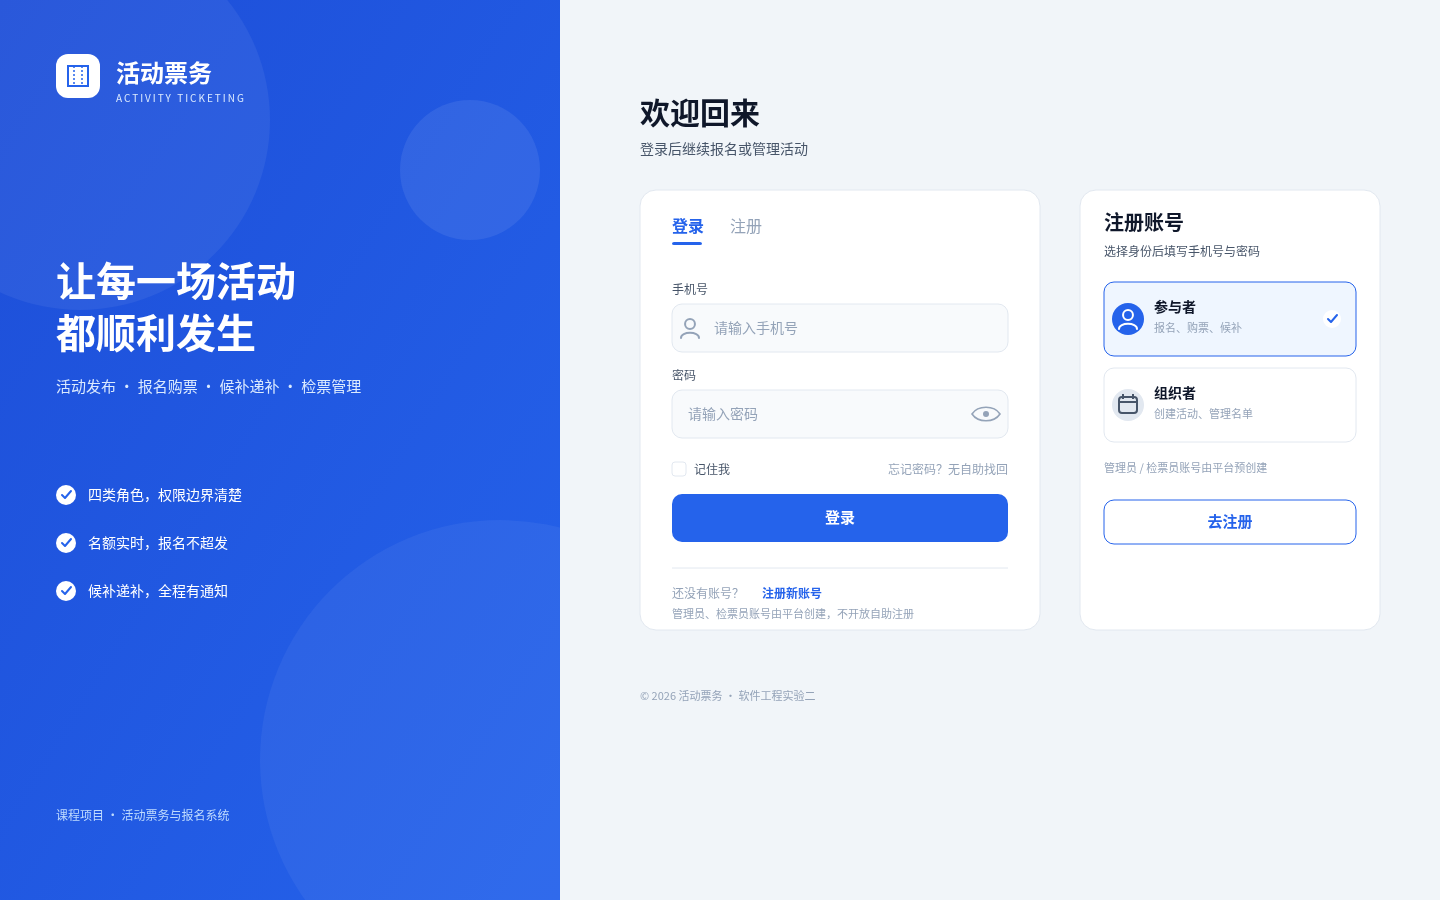
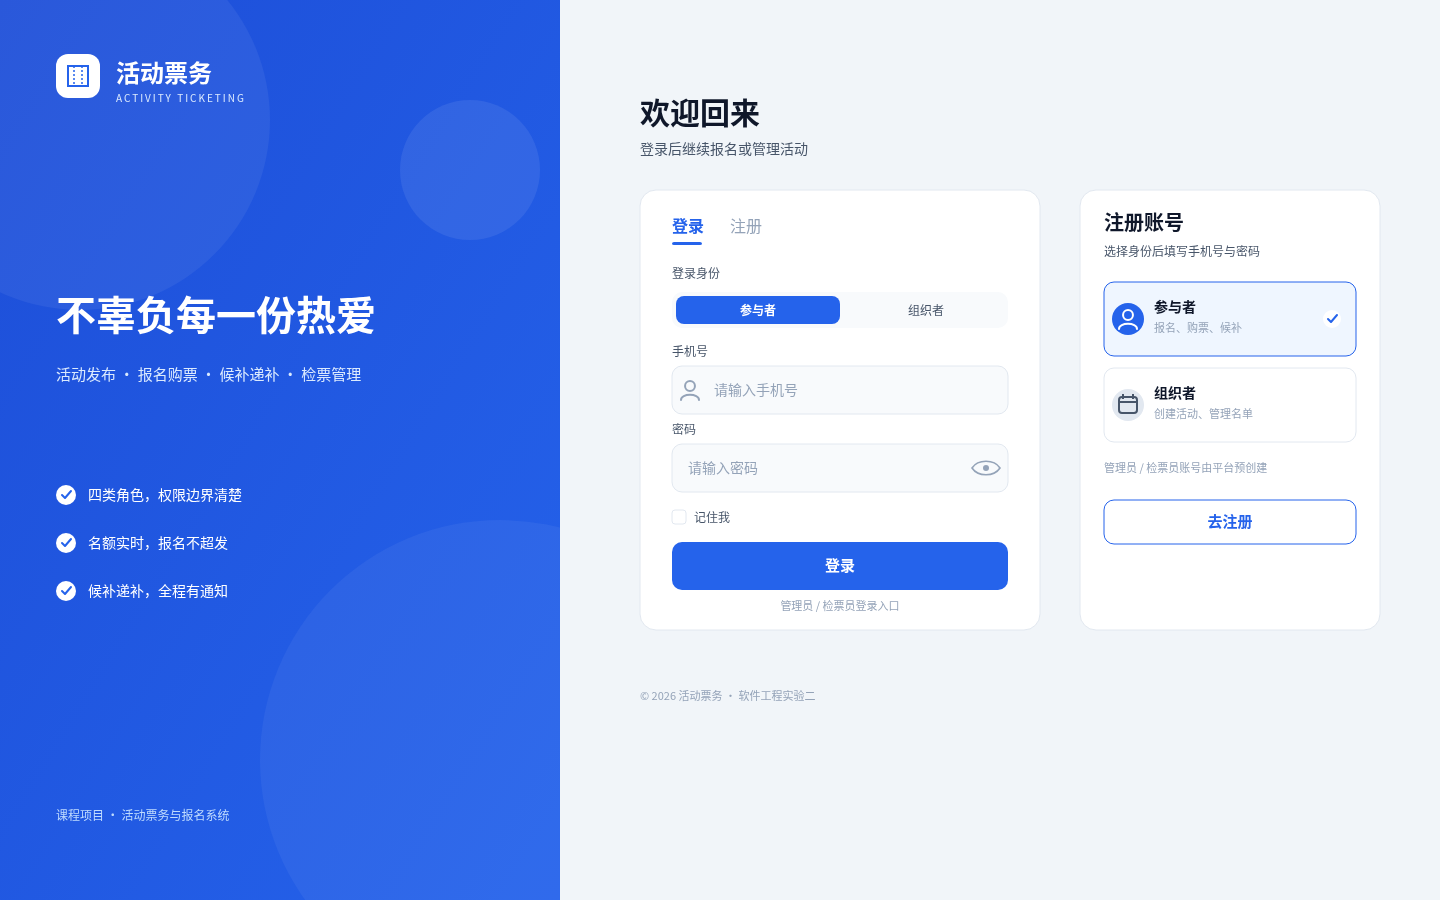
lab2: 按人工意见修改登录页
- 登录增加参与者/组织者身份选择
- 账号唯一键改为 (手机号, 角色)
- 删除找回密码和重复注册/平台创建提示
- 主文案改为“不辜负每一份热爱”
- 记录人工审查与 AI 使用

Changed region(s): [[0.4688, 0.28, 0.7188, 0.6844], [0.0312, 0.28, 0.2812, 0.4356], [0.625, 0.3422, 0.6562, 0.3733]]

diff --git a/lab2/UI/生成UI.py b/lab2/UI/生成UI.py
@@ -122,8 +122,8 @@ def screen_login():
              f'<path d="M74 66 v20 M82 66 v20" stroke="{C["primary"]}" stroke-width="1.5" stroke-dasharray="2 2"/>')
     b.append(text(116, 82, "活动票务", 24, "#FFFFFF", 700))
     b.append(text(116, 102, "ACTIVITY TICKETING", 10, "#DBEAFE", 500, spacing="2"))
-    b.append(lines(56, 296, ["让每一场活动", "都顺利发生"], 40, "#FFFFFF", 700, 52))
-    b.append(text(56, 392, "活动发布 · 报名购票 · 候补递补 · 检票管理", 15, "#DBEAFE", 400))
+    b.append(text(56, 330, "不辜负每一份热爱", 40, "#FFFFFF", 700))
+    b.append(text(56, 380, "活动发布 · 报名购票 · 候补递补 · 检票管理", 15, "#DBEAFE", 400))
     for i, s in enumerate(["四类角色，权限边界清楚", "名额实时，报名不超发", "候补递补，全程有通知"]):
         y = 500 + i * 48
         b.append(icon_check(66, y - 5, 10))
@@ -137,17 +137,18 @@ def screen_login():
     b.append(text(672, 232, "登录", 16, C["primary"], 700))
     b.append(rect(672, 242, 30, 3, C["primary"], 2))
     b.append(text(730, 232, "注册", 16, C["muted"], 500))
-    b.append(input_box(672, 304, 336, 48, "请输入手机号", "手机号", icon=icon_person))
-    b.append(input_box(672, 390, 336, 48, "请输入密码", "密码"))
-    b.append(f'<path d="M972 414 c6 -9 22 -9 28 0 c-6 9 -22 9 -28 0z" fill="none" stroke="{C["muted"]}" stroke-width="1.6"/><circle cx="986" cy="414" r="3" fill="{C["muted"]}"/>')
-    b.append(rect(672, 462, 14, 14, C["surface"], 3, C["border"]))
-    b.append(text(694, 474, "记住我", 12, C["sub"]))
-    b.append(text(1008, 474, "忘记密码？无自助找回", 12, C["muted"], 400, "end"))
-    b.append(button(672, 494, 336, 48, "登录", "primary"))
-    b.append(line(672, 568, 1008, 568, C["border"]))
-    b.append(text(672, 598, "还没有账号？", 12, C["muted"]))
-    b.append(text(762, 598, "注册新账号", 12, C["primary"], 600))
-    b.append(text(672, 618, "管理员、检票员账号由平台创建，不开放自助注册", 11, C["muted"]))
+    b.append(text(672, 278, "登录身份", 12, C["sub"], 500))
+    b.append(rect(672, 292, 336, 36, C["bg"], 10))
+    b.append(rect(676, 296, 164, 28, C["primary"], 8))
+    b.append(text(758, 315, "参与者", 12, "#FFFFFF", 600, "middle"))
+    b.append(text(926, 315, "组织者", 12, C["sub"], 500, "middle"))
+    b.append(input_box(672, 366, 336, 48, "请输入手机号", "手机号", icon=icon_person))
+    b.append(input_box(672, 444, 336, 48, "请输入密码", "密码"))
+    b.append(f'<path d="M972 468 c6 -9 22 -9 28 0 c-6 9 -22 9 -28 0z" fill="none" stroke="{C["muted"]}" stroke-width="1.6"/><circle cx="986" cy="468" r="3" fill="{C["muted"]}"/>')
+    b.append(rect(672, 510, 14, 14, C["surface"], 3, C["border"]))
+    b.append(text(694, 522, "记住我", 12, C["sub"]))
+    b.append(button(672, 542, 336, 48, "登录", "primary"))
+    b.append(text(840, 610, "管理员 / 检票员登录入口", 11, C["muted"], 500, "middle"))
 
     # 右侧注册引导卡
     b.append(rect(1080, 190, 300, 440, C["surface"], 16, C["border"]))

diff --git a/lab2/AI使用记录.md b/lab2/AI使用记录.md
@@ -17,6 +17,7 @@
 | R5 | 活动图 | 认为流程没问题；要求说明本图只到候补入队，候补后续递补/失败/退款/通知另算 | 是：措辞改为“候补入队成功”，补范围说明 | `987974d` |
 | R6 | 时序图 | 认为没问题；AI 自检发现“时间校验/查重”顺序与活动图不一致 | 是：把时间校验移到新请求分支、扣名额之前 | `95b5fc7` |
 | R7 | 状态图 | 认为状态图有点乱；要求简化布局，不改变状态规则 | 是：活动图用复合状态收敛取消箭头；报名图改横向布局 | `5f8541b` |
+| R8 | UI 三屏（登录页） | 登录需选择身份（同一手机号可能对应不同角色）；去掉找回密码；删除重复注册提示；左侧文案改为“不辜负每一份热爱”；平台预创建提示只保留一处 | 是：登录增加参与者/组织者身份选择；账号唯一键改为 `(手机号, 角色)`；删除重复文案；调整文案 | 待提交（登录页修改） |
 
 > 其中 R4 是“人工审核认为正确、未修改模型”的例子：扩展箭头方向经课程定义确认正确；R5/R6 也属于“人工确认主流程正确，只做表述/顺序一致性修正”。
 
@@ -111,7 +112,7 @@
 - **输入**：9 屏清单、角色权限、售票/售罄/候补/支付标记规则、设计系统。
 - **生成结果**：`UI/01_登录注册.svg`、`UI/02_活动浏览与详情.svg`、`UI/03_报名购票与候补.svg`，以及 UI 设计规范、三屏说明、Figma 导入说明。
 - **优点/问题**：覆盖账号、活动/票种、报名/候补核心路径，状态可见；但只是静态骨架，封面图片、字体、空/加载/禁用状态和 Figma 组件化仍需人工调整。
-- **人工修改**：待你在 Figma 中调整后填写。
+- **人工修改**：登录页已按 R8 调整：增加参与者/组织者登录身份选择；删除“忘记密码”；删除重复的“注册新账号”和平台创建提示；左侧文案改为“不辜负每一份热爱”。其余两屏待 Figma 调整。
 - **Git**：待提交（UI 三屏样例）。
 
 ---

diff --git a/lab2/杂物/AI使用记录_完整过程.md b/lab2/杂物/AI使用记录_完整过程.md
@@ -433,3 +433,27 @@
   - 问题：AI 生成的是静态骨架，图片封面、字体、交互状态（空/加载/禁用）仍需 Figma 人工调整；第 2 屏详情、第 3 屏有票/售罄两种状态后续可能需要拆 Frame 或做变体。
 - **人工修改优化后的结果**：待 Figma 调整后填写。
 - **对应 Git 提交**：待提交（UI 三屏样例）。
+
+---
+
+## 使用记录 23：登录页人工审查与修改
+
+- **时间**：2026-11-01
+- **使用场景**：用户审查 UI 三屏中的登录页，提出具体修改意见。
+- **输入（用户反馈要点，按原意记录）**：
+  - 登录只有手机号+密码，但同一手机号可能对应参与者/组织者两个账号，应该加登录身份选择；
+  - 不做自助找回密码，删掉“忘记密码”；
+  - 下方“注册新账号”和右侧注册卡重复；
+  - 左侧“让每一场活动都顺利发生”改为“不辜负每一份热爱”；
+  - 管理员/检票员账号由平台创建这句话写了两遍，只保留一处。
+- **AI 的处理**：
+  - 登录卡增加“登录身份：参与者 / 组织者”分段选择；
+  - 删除“忘记密码？无自助找回”；
+  - 删除登录卡底部的“还没有账号？注册新账号”和重复的平台创建提示；
+  - 保留右侧注册卡的平台预创建提示，并在登录卡底部增加“管理员 / 检票员登录入口”；
+  - 左侧主标题改为“不辜负每一份热爱”。
+- **优点/问题**：
+  - 优点：同一手机号多角色的登录路径清楚；页面信息不重复；文案更贴合活动主题。
+  - 问题：登录身份目前只列参与者/组织者，管理员/检票员通过单独入口进入；如果后续希望四类角色都在同一个选择器里，需要再调整。
+- **人工修改优化后的结果**：按用户意见完成登录页修改；其他两屏未改。
+- **对应 Git 提交**：待提交（登录页修改）。

diff --git a/lab2/UI/三屏样例说明.md b/lab2/UI/三屏样例说明.md
@@ -9,12 +9,14 @@
 - **覆盖模块**：账号（D6/A0）。
 - **页面结构**：左侧品牌介绍；右侧登录卡；右侧注册身份引导卡。
 - **关键内容**：
-  - 登录：手机号、密码、登录按钮；
-  - 注册：参与者/组织者身份选择；管理员、检票员账号由平台预创建，不开放自助注册；
-  - 明确“无自助找回密码”。
+  - 登录：先选身份（参与者/组织者），再填手机号、密码；因为同一手机号可能对应不同角色；
+  - 注册：右侧注册卡选择参与者/组织者身份；管理员、检票员账号由平台预创建；
+  - 管理员/检票员通过登录卡底部的“登录入口”进入，不再重复写“平台创建”；
+  - 不提供“忘记密码/自助找回”；
+  - 左侧文案为“不辜负每一份热爱”。
 - **需要你在 Figma 中调整**：
   - 品牌区文案/配色是否符合你的审美；
-  - 登录/注册是否要改成同一张卡片的 Tab 切换；
+  - 登录身份切换的选中态/未选中态颜色；
   - 密码框眼睛图标、输入框圆角和间距。
 
 ## 02 活动浏览与详情

diff --git a/lab2/UI/UI设计规范.md b/lab2/UI/UI设计规范.md
@@ -51,7 +51,7 @@
 
 | 编号 | 界面 | 角色 | 覆盖模块 | 关键状态 |
 |---|---|---|---|---|
-| UI-01 | 登录/注册 | 全部 | 账号 | 登录、注册身份选择、管理员/检票员不可自助注册、无找回密码 |
+| UI-01 | 登录/注册 | 全部 | 账号 | 登录身份选择（参与者/组织者）、注册身份选择、管理员/检票员入口、无找回密码；平台预创建提示只保留一处 |
 | UI-02 | 活动浏览与详情 | 参与者 | 活动/场次、票种/容量、查询 | 售票中、即将售罄、售罄可候补、筛选 |
 | UI-03 | 报名购票与候补 | 参与者 | 报名、退票/候补 | 有票直接报名、售罄加入候补、支付标记、截止提示 |
 | UI-04 | 我的票与退票 | 参与者 | 报名、退票 | 已购票/已检票/已取消、退票截止、退款 |

diff --git a/lab2/UML/类图说明.md b/lab2/UML/类图说明.md
@@ -108,7 +108,7 @@
 
 | 类 | 表 | 关键字段/约束 |
 |---|---|---|
-| Account + 四个角色 | `account` | id、phone（唯一）、password_hash、name、role、status；单表 + role 区分角色 |
+| Account + 四个角色 | `account` | id、phone、password_hash、name、role、status；`(phone, role)` 唯一；单表 + role 区分角色 |
 | Activity | `activity` | id、organizer_id、name、description、time、location、estimated_participants、waitlist_deadline、sale_start、sale_end、refund_deadline、status、cover、tags |
 | Session | `activity_session` | id、activity_id、session_no、time、checkin_open_time、allow_waitlist、status |
 | TicketType | `ticket_type` | id、session_id、kind、price、capacity、occupied；`occupied <= capacity` |
